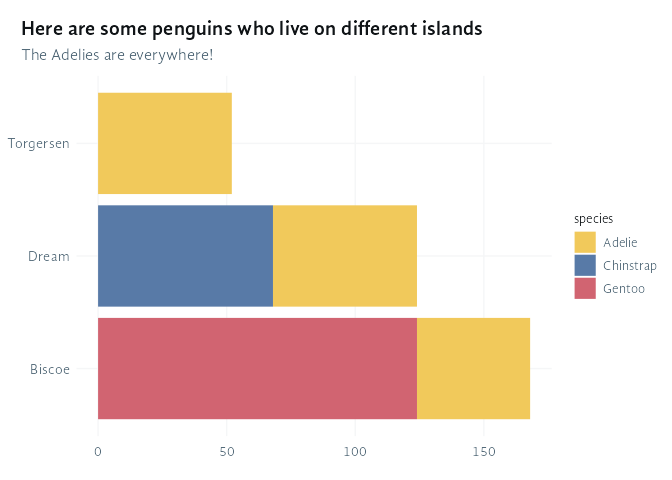
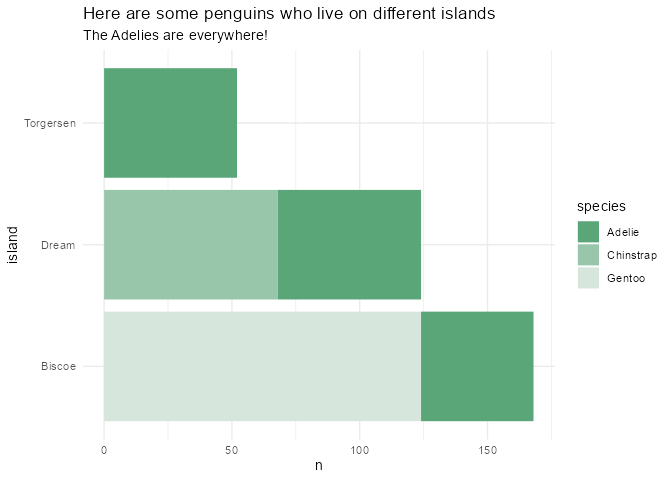
Added colours we discussed

diff --git a/README.md b/README.md
@@ -209,6 +209,45 @@ palmerpenguins::penguins %>%
 
 ![](README_files/figure-gfm/unnamed-chunk-9-1.png)<!-- -->
 
+Positive to negative colour options:
+
+``` r
+monochromeR::generate_palette("#587AA7", "go_lighter", n_colours = 3, view_palette = TRUE)
+```
+
+![](README_files/figure-gfm/unnamed-chunk-10-1.png)<!-- -->
+
+    ## [1] "#587AA7" "#9AAFCA" "#DDE4ED"
+
+``` r
+monochromeR::generate_palette("#5AA678", "go_lighter", n_colours = 3, view_palette = TRUE)
+```
+
+![](README_files/figure-gfm/unnamed-chunk-10-2.png)<!-- -->
+
+    ## [1] "#5AA678" "#9CC9AE" "#DEEDE4"
+
+``` r
+monochromeR::generate_palette("#DEEDE4", blend_colour = "#DDE4ED", n_colours = 3, view_palette = TRUE)
+```
+
+    ## 
+    ## Because you supplied a blend_colour, the modification variable is set to "blend".
+    ## To use other modification options ("go_darker", "go_lighter" or "go_both_ways"),
+    ## leave blend_colour as NULL.
+
+![](README_files/figure-gfm/unnamed-chunk-10-3.png)<!-- -->
+
+    ## [1] "#DEEDE4" "#DDE9E7" "#DDE5EB"
+
+``` r
+pos_neg <- c("#587AA7", "#9AAFCA", "#DDE9E7", "#9CC9AE", "#5AA678")
+
+monochromeR::view_palette(pos_neg)
+```
+
+![](README_files/figure-gfm/unnamed-chunk-10-4.png)<!-- -->
+
 ### Applying these within `mirror_theme()`
 
 I have adapted the theme code to bring in the fonts from the rest of the
@@ -237,7 +276,7 @@ palmerpenguins::penguins %>%
     ## To use other modification options ("go_darker", "go_lighter" or "go_both_ways"),
     ## leave blend_colour as NULL.
 
-![](README_files/figure-gfm/unnamed-chunk-10-1.png)<!-- -->
+![](README_files/figure-gfm/unnamed-chunk-11-1.png)<!-- -->
 
 ``` r
 palmerpenguins::penguins %>%
@@ -255,7 +294,7 @@ palmerpenguins::penguins %>%
   theme_minimal()
 ```
 
-![](README_files/figure-gfm/unnamed-chunk-10-2.png)<!-- -->
+![](README_files/figure-gfm/unnamed-chunk-11-2.png)<!-- -->
 
 And they are again with the theme:
 
@@ -275,7 +314,7 @@ palmerpenguins::penguins %>%
   mirror_theme()
 ```
 
-![](README_files/figure-gfm/unnamed-chunk-11-1.png)<!-- -->
+![](README_files/figure-gfm/unnamed-chunk-12-1.png)<!-- -->
 
 ``` r
 palmerpenguins::penguins %>%
@@ -299,4 +338,4 @@ palmerpenguins::penguins %>%
     ## To use other modification options ("go_darker", "go_lighter" or "go_both_ways"),
     ## leave blend_colour as NULL.
 
-![](README_files/figure-gfm/unnamed-chunk-11-2.png)<!-- -->
+![](README_files/figure-gfm/unnamed-chunk-12-2.png)<!-- -->
